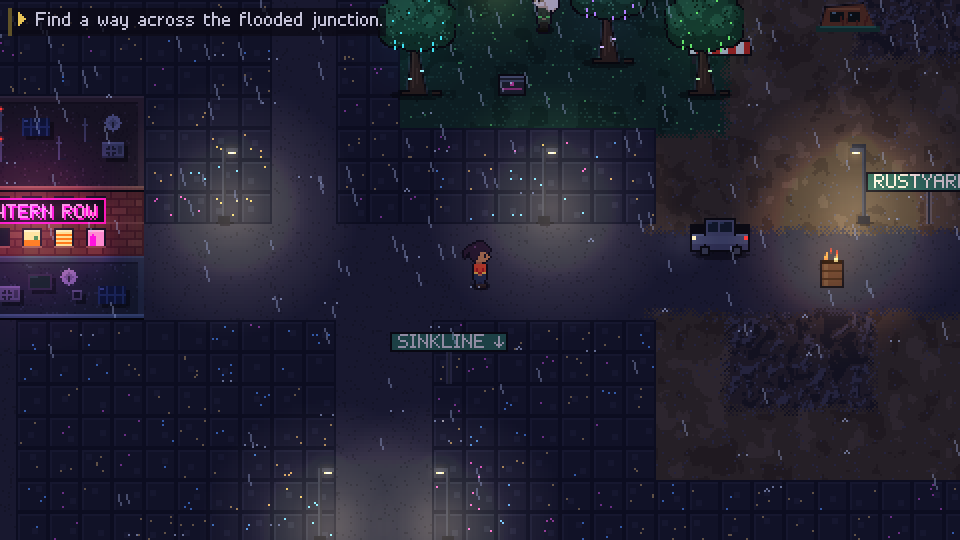
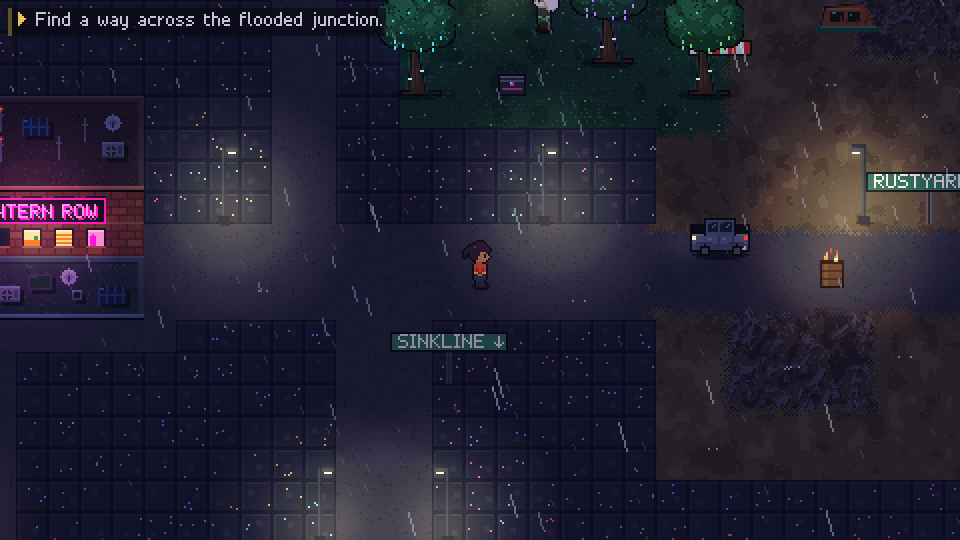
Round 4 (part 7): field art
- Field sprites get a mouth and brows (per-character expression; pedestrians vary)
- Rain in three depth layers with parallax; weather pools drops and splashes (no per-frame allocation)
- Drowned Saint: diamond-motif carpet with faded patches, wall posters, clutter
- Floor lamps get a housing, bulb and guard; cars get seams, handles, arches, plates and glare
- Calmer Rustyard dirt and scrap heaps; polished K-M lab floor

diff --git a/src/field/weather.ts b/src/field/weather.ts
@@ -1,4 +1,4 @@
-/** Screen-space weather: rain with ground splashes, dripping water, drifting dust. */
+/** Screen-space weather: rain in three depth layers with ground splashes, dripping water, drifting dust. */
 import type { Ctx } from '../engine/canvas';
 import { H, W } from '../engine/game';
 import { Rng } from '../engine/rng';
@@ -11,6 +11,8 @@ interface Drop {
   life: number;
   /** Screen y where it lands. */
   land: number;
+  /** Rain layer: 0 far, 1 mid, 2 near (see LAYERS). */
+  depth: number;
 }
 
 interface Splash {
@@ -19,9 +21,23 @@ interface Splash {
   t: number;
 }
 
+/**
+ * Rain depth: far streaks are short, faint and slow and drift less when the camera moves; near
+ * ones are long, bright and fast and drift more. Only the mid layer lands on the ground we see.
+ */
+const LAYERS = [
+  { share: 0.35, speed: 0.6, len: [3, 4], alpha: 0.16, color: '#8a98c8', parallax: 0.55 },
+  { share: 0.5, speed: 1, len: [5, 9], alpha: 0.32, color: '#b8c8ff', parallax: 1 },
+  { share: 0.15, speed: 1.45, len: [11, 15], alpha: 0.4, color: '#dce4ff', parallax: 1.4 },
+] as const;
+
+const MAX_SPLASHES = 60;
+
 export class Weather {
   private drops: Drop[] = [];
+  /** Splash pool: the first `splashCount` entries are live; the rest are kept for reuse. */
   private splashes: Splash[] = [];
+  private splashCount = 0;
   private rng = new Rng(77);
   kind: 'rain' | 'drip' | 'dust' | 'none' = 'none';
   intensity = 1;
@@ -30,34 +46,63 @@ export class Weather {
     this.kind = kind;
     this.intensity = intensity;
     this.drops.length = 0;
-    this.splashes.length = 0;
+    this.splashCount = 0;
     const n = this.count();
-    for (let i = 0; i < n; i++) this.drops.push(this.spawn(true));
+    for (let i = 0; i < n; i++) {
+      const d: Drop = { x: 0, y: 0, len: 0, speed: 0, life: 0, land: 0, depth: 1 };
+      this.reset(d, true);
+      this.drops.push(d);
+    }
   }
 
   private count(): number {
     switch (this.kind) {
-      case 'rain': return Math.round(170 * this.intensity);
+      case 'rain': return Math.round(190 * this.intensity);
       case 'drip': return Math.round(14 * this.intensity);
       case 'dust': return Math.round(50 * this.intensity);
       default: return 0;
     }
   }
 
-  private spawn(anywhere: boolean): Drop {
+  /** Re-seed a drop in place (no allocation per respawn). */
+  private reset(d: Drop, anywhere: boolean): void {
     const r = this.rng;
     if (this.kind === 'dust') {
-      return { x: r.range(0, W), y: r.range(0, H), len: r.int(1, 2), speed: r.range(0.1, 0.35), life: r.int(200, 600), land: H + 10 };
+      d.x = r.range(0, W);
+      d.y = r.range(0, H);
+      d.len = r.int(1, 2);
+      d.speed = r.range(0.1, 0.35);
+      d.life = r.int(200, 600);
+      d.land = H + 10;
+      d.depth = 1;
+      return;
     }
-    const speed = this.kind === 'drip' ? r.range(2.5, 3.5) : r.range(5.5, 8);
-    return {
-      x: r.range(-40, W + 10),
-      y: anywhere ? r.range(-20, H) : r.range(-40, -5),
-      len: this.kind === 'drip' ? 3 : r.int(5, 9),
-      speed,
-      life: 0,
-      land: r.range(20, H + 30),
-    };
+    if (this.kind === 'drip') {
+      d.depth = 1;
+      d.speed = r.range(2.5, 3.5);
+      d.len = 3;
+    } else {
+      const roll = r.next();
+      d.depth = roll < LAYERS[0].share ? 0 : roll < LAYERS[0].share + LAYERS[1].share ? 1 : 2;
+      const layer = LAYERS[d.depth]!;
+      d.speed = r.range(5.5, 8) * layer.speed;
+      d.len = r.int(layer.len[0], layer.len[1]);
+    }
+    d.x = r.range(-40, W + 10);
+    d.y = anywhere ? r.range(-20, H) : r.range(-40, -5);
+    d.life = 0;
+    d.land = d.depth === 1 ? r.range(20, H + 30) : H + 20;
+  }
+
+  private splash(x: number, y: number): void {
+    if (this.splashCount >= MAX_SPLASHES) return;
+    const s = this.splashes[this.splashCount];
+    if (s) {
+      s.x = x;
+      s.y = y;
+      s.t = 0;
+    } else this.splashes.push({ x, y, t: 0 });
+    this.splashCount++;
   }
 
   /** dx, dy: camera movement this frame (keeps rain world-anchored when walking). */
@@ -69,22 +114,34 @@ export class Weather {
         d.x += d.speed - dx * 0.8;
         d.y += Math.sin((d.life + i * 40) * 0.02) * 0.2 - dy * 0.8;
         d.life--;
-        if (d.life <= 0 || d.x > W + 5 || d.x < -5 || d.y < -5 || d.y > H + 5) this.drops[i] = { ...this.spawn(true), x: -2 };
+        if (d.life <= 0 || d.x > W + 5 || d.x < -5 || d.y < -5 || d.y > H + 5) {
+          this.reset(d, true);
+          d.x = -2;
+        }
         continue;
       }
-      d.y += d.speed - dy;
-      d.x += d.speed * 0.28 - dx;
+      const par = this.kind === 'rain' ? LAYERS[d.depth]!.parallax : 1;
+      d.y += d.speed - dy * par;
+      d.x += d.speed * 0.28 - dx * par;
       if (d.y >= d.land) {
-        if (d.land < H && this.splashes.length < 60) this.splashes.push({ x: d.x, y: d.land, t: 0 });
-        this.drops[i] = this.spawn(false);
+        if (d.land < H) this.splash(d.x, d.land);
+        this.reset(d, false);
       }
     }
-    for (const s of this.splashes) {
+    // Age splashes and compact the live ones to the front, in place.
+    let n = 0;
+    for (let i = 0; i < this.splashCount; i++) {
+      const s = this.splashes[i]!;
       s.t++;
       s.x -= dx;
       s.y -= dy;
+      if (s.t < 10) {
+        this.splashes[i] = this.splashes[n]!;
+        this.splashes[n] = s;
+        n++;
+      }
     }
-    this.splashes = this.splashes.filter((s) => s.t < 10);
+    this.splashCount = n;
   }
 
   render(ctx: Ctx): void {
@@ -96,20 +153,33 @@ export class Weather {
       ctx.globalAlpha = 1;
       return;
     }
-    ctx.globalAlpha = this.kind === 'drip' ? 0.6 : 0.32;
-    ctx.fillStyle = '#b8c8ff';
-    for (const d of this.drops) {
-      const x = Math.round(d.x), y = Math.round(d.y);
-      // Slanted streak: 1px wide, drawn as a short diagonal.
-      for (let k = 0; k < d.len; k++) ctx.fillRect(x - Math.round(k * 0.28), y - k, 1, 1);
+    if (this.kind === 'drip') {
+      ctx.globalAlpha = 0.6;
+      ctx.fillStyle = '#b8c8ff';
+      for (const d of this.drops) this.streak(ctx, d);
+    } else {
+      // Back to front, one fill style per layer.
+      for (let layer = 0; layer < LAYERS.length; layer++) {
+        ctx.globalAlpha = LAYERS[layer]!.alpha;
+        ctx.fillStyle = LAYERS[layer]!.color;
+        for (const d of this.drops) if (d.depth === layer) this.streak(ctx, d);
+      }
     }
     ctx.globalAlpha = 0.5;
-    for (const s of this.splashes) {
+    ctx.fillStyle = '#b8c8ff';
+    for (let i = 0; i < this.splashCount; i++) {
+      const s = this.splashes[i]!;
       const r = 1 + (s.t >> 2);
       ctx.fillRect(Math.round(s.x - r), Math.round(s.y), 1, 1);
       ctx.fillRect(Math.round(s.x + r), Math.round(s.y), 1, 1);
       if (s.t < 4) ctx.fillRect(Math.round(s.x), Math.round(s.y - 1), 1, 1);
     }
     ctx.globalAlpha = 1;
+  }
+
+  /** A slanted 1px streak, drawn as a short diagonal. */
+  private streak(ctx: Ctx, d: Drop): void {
+    const x = Math.round(d.x), y = Math.round(d.y);
+    for (let k = 0; k < d.len; k++) ctx.fillRect(x - Math.round(k * 0.28), y - k, 1, 1);
   }
 }

diff --git a/src/field/tiles.ts b/src/field/tiles.ts
@@ -217,9 +217,10 @@ const solid = (c: RGB): Painter => () => c;
 
 const dirt: Painter = (_lx, _ly, wx, wy) => {
   const h = hash2(wx, wy, 61);
-  if (h < 0.06) return P.dirtD;
-  if (h > 0.95) return P.dirtL;
-  return fbm(wx / 8, wy / 8, 2, 62) < 0.4 ? P.dirtD : P.dirt;
+  if (h < 0.025) return P.dirtD;
+  if (h > 0.985) return P.dirtL;
+  const n = fbm(wx / 10, wy / 10, 2, 62);
+  return n < 0.36 ? lerpC(P.dirt, P.dirtD, 0.55) : P.dirt;
 };
 
 const grass: Painter = (lx, ly, wx, wy) => {
@@ -253,13 +254,14 @@ const rubble: Painter = (_lx, _ly, wx, wy) => {
 const JUNK_COLS: RGB[] = [C('#3a3d4a'), C('#4a4e5c'), C('#5a3e30'), C('#6a4a36'), C('#2a2c36'), C('#5a5f70'), C('#7a5a3a')];
 const junk: Painter = (lx, ly, wx, wy, tx, ty, q) => {
   const below = q.at(tx, ty + 1);
-  const n = valueNoise(wx / 5, wy / 5, 201);
-  const h = hash2(Math.floor(wx / 3), Math.floor(wy / 2), 202);
-  let c = JUNK_COLS[Math.floor(h * JUNK_COLS.length)]!;
-  if (n > 0.66) c = lerpC(c, [255, 255, 255], 0.12);
-  if (n < 0.3) c = lerpC(c, [0, 0, 0], 0.35);
-  if (hash2(wx, wy, 203) < 0.02) c = C('#ffcc3d');
-  if (hash2(wx, wy, 204) < 0.012) c = C('#3fe0f0');
+  // Larger salvage chunks with soft shading read as heaped scrap rather than static.
+  const n = valueNoise(wx / 7, wy / 7, 201);
+  const h = hash2(Math.floor(wx / 6), Math.floor(wy / 4), 202);
+  let c = lerpC(JUNK_COLS[Math.floor(h * JUNK_COLS.length)]!, [52, 44, 48], 0.3);
+  if (n > 0.66) c = lerpC(c, [255, 255, 255], 0.1);
+  if (n < 0.3) c = lerpC(c, [0, 0, 0], 0.3);
+  if (hash2(wx, wy, 203) < 0.005) c = C('#ffcc3d');
+  if (hash2(wx, wy, 204) < 0.003) c = C('#3fe0f0');
   // Bottom edge darkens where the pile meets open ground.
   if (below !== 'junk' && ly >= 13) return lerpC(c, [8, 6, 12], (ly - 12) / 4);
   void lx;
@@ -303,8 +305,14 @@ const floorMetal: Painter = (lx, ly) => {
 };
 
 const floorCarpet: Painter = (lx, ly, wx, wy) => {
-  if ((lx + ly) % 8 === 0 && (lx - ly + 16) % 8 === 0) return P.carpetL;
-  return hash2(wx, wy, 101) < 0.1 ? P.carpetD : P.carpet;
+  const d = Math.abs(lx - 7.5) + Math.abs(ly - 7.5);
+  if (Math.round(d) === 6) return P.carpetL;
+  if (d < 1.5) return P.carpetD;
+  if (Math.round(d) === 3 && (lx + ly) % 2 === 0) return lerpC(P.carpet, P.carpetL, 0.5);
+  if (hash2(wx, wy, 103) < 0.003) return [26, 14, 20];
+  const faded = fbm(wx / 36, wy / 36, 2, 107) > 0.6;
+  const base = faded ? lerpC(P.carpet, P.carpetL, 0.22) : P.carpet;
+  return hash2(wx, wy, 101) < 0.06 ? P.carpetD : base;
 };
 
 const floorConcrete: Painter = (_lx, _ly, wx, wy) => {
@@ -389,10 +397,11 @@ const catwalk: Painter = (lx, ly, wx, wy) => {
 const labFloor: Painter = (lx, ly, wx, wy) => {
   if (lx === 0 || ly === 0) return P.labSeam;
   let base = lx === 15 || ly === 15 ? P.labFloorD : P.labFloor;
-  const dust = fbm(wx / 20, wy / 20, 3, 361);
-  if (dust < 0.4) base = lerpC(base, P.labSeam, (0.4 - dust) * 1.5);
-  if (hash2(Math.floor(wx / 6), Math.floor(wy / 3), 362) < 0.06 && (wx + wy * 2) % 7 === 0) return lerpC(base, [40, 44, 56], 0.3);
-  if (hash2(wx, wy, 363) < 0.012) return P.labFloorD;
+  const scuff = fbm(wx / 24, wy / 24, 2, 361);
+  if (scuff < 0.3) base = lerpC(base, P.labSeam, (0.3 - scuff) * 0.8);
+  // Polished sheen: a soft diagonal highlight across each tile.
+  if (lx + ly === 9 || lx + ly === 10) base = lerpC(base, [255, 255, 255], 0.12);
+  if (hash2(wx, wy, 363) < 0.003) return P.labFloorD;
   return base;
 };
 

diff --git a/src/field/props.ts b/src/field/props.ts
@@ -198,6 +198,14 @@ export const PROPS: Partial<Record<PropKind, PropPainter>> = {
       c.fillStyle = shade(col, -0.1); c.fillRect(8, 4, 14, 8);
       c.fillStyle = '#1a2436'; c.fillRect(9, 5, 5, 5); c.fillRect(15, 5, 6, 5);
       c.fillStyle = '#3a4a66'; c.fillRect(9, 5, 2, 1); c.fillRect(15, 5, 2, 1);
+      // Glare streaks across the glass.
+      c.fillStyle = '#6a7a9a'; c.fillRect(12, 6, 1, 1); c.fillRect(11, 7, 1, 1); c.fillRect(19, 6, 1, 1); c.fillRect(18, 7, 1, 1);
+      // Door seams and handles, wheel arches, a rear plate.
+      c.fillStyle = shade(col, -0.4); c.fillRect(14, 12, 1, 5); c.fillRect(21, 12, 1, 5);
+      c.fillStyle = shade(col, 0.45); c.fillRect(16, 13, 2, 1); c.fillRect(9, 13, 2, 1);
+      c.fillStyle = shade(col, -0.55); c.fillRect(3, 15, 8, 1); c.fillRect(19, 15, 8, 1);
+      c.fillStyle = '#d8d0b8'; c.fillRect(25, 17, 3, 2);
+      c.fillStyle = '#3a3440'; c.fillRect(26, 17, 1, 1);
       c.fillStyle = '#0f0e17';
       disc(c, 7, 19, 3, '#0f0e17'); disc(c, 23, 19, 3, '#0f0e17');
       disc(c, 7, 19, 1.5, '#4a4e5c'); disc(c, 23, 19, 1.5, '#4a4e5c');
@@ -834,13 +842,22 @@ export const PROPS: Partial<Record<PropKind, PropPainter>> = {
   lampfloor(b, p) {
     blockFoot(b, p);
     const col = p.color ?? '#ffcf7a';
-    const { x, y } = tall(b, p, 10, 26, (c, e) => {
-      c.fillStyle = '#0f0e17'; c.fillRect(4, 8, 2, 18); c.fillRect(2, 24, 6, 2);
-      c.fillStyle = '#3a3040'; c.fillRect(4, 8, 1, 16);
-      both(c, e, (k) => { k.fillStyle = col; k.fillRect(1, 1, 8, 7); k.fillStyle = mix(col, '#fff', 0.5); k.fillRect(2, 2, 6, 2); });
-      c.fillStyle = '#0f0e17'; c.fillRect(0, 0, 10, 1); c.fillRect(0, 8, 10, 1);
+    const { x, y } = tall(b, p, 12, 26, (c, e) => {
+      // Pole on a weighted base, with its cable trailing off across the floor.
+      c.fillStyle = '#0f0e17'; c.fillRect(5, 9, 2, 16); c.fillRect(2, 23, 8, 3);
+      c.fillStyle = '#3a3040'; c.fillRect(5, 9, 1, 14); c.fillRect(3, 23, 6, 1);
+      c.fillStyle = '#1a1622'; c.fillRect(9, 24, 2, 1); c.fillRect(11, 25, 1, 1);
+      // Housing: dark shell with a lit face, the bulb hot in the middle, a wire guard over it.
+      c.fillStyle = '#0f0e17'; c.fillRect(0, 0, 12, 9);
+      c.fillStyle = '#2a2632'; c.fillRect(1, 1, 10, 2);
+      both(c, e, (k) => {
+        k.fillStyle = shade(col, -0.3); k.fillRect(1, 3, 10, 5);
+        k.fillStyle = col; k.fillRect(2, 3, 8, 4);
+        k.fillStyle = mix(col, '#fff', 0.75); k.fillRect(4, 4, 4, 2);
+      });
+      c.fillStyle = '#0f0e17'; c.fillRect(3, 3, 1, 5); c.fillRect(8, 3, 1, 5); c.fillRect(1, 5, 10, 1);
     });
-    b.lights.push({ x: x + 5, y: y + 10, r: 56, color: col, i: 0.9 });
+    b.lights.push({ x: x + 6, y: y + 10, r: 56, color: col, i: 0.9 });
   },
 
   sign_board(b, p) {

diff --git a/src/art/chars.ts b/src/art/chars.ts
@@ -35,6 +35,10 @@ export interface CharLook {
   visor?: string;
   goggles?: string;
   accessories?: Accessory[];
+  /** Front-view mouth: a short line (default), a grin with teeth, or none. */
+  mouth?: 'line' | 'grin' | 'none';
+  /** Front-view brows (default on). */
+  brows?: boolean;
 }
 
 export interface CharSprite {
@@ -692,6 +696,7 @@ function palette(look: CharLook, nearArm: 'left' | 'right' | null): Pal {
   return {
     s: look.skin, S: sd(look.skin, -0.28),
     e: look.eyes ?? '#1a1426',
+    m: sd(look.skin, -0.42),
     t: look.top, T: sd(look.top),
     i: inner, I: sd(inner),
     a: look.accent, A: sd(look.accent),
@@ -768,6 +773,29 @@ function hairStrands(rows: string[]): void {
   }
 }
 
+/**
+ * Brows and a mouth on the front view, painted only onto bare skin (hair, beards and masks win).
+ * Two rows of separation from the eyes keeps them reading as a face, not taller eyes.
+ */
+function faceFeatures(rows: string[], look: CharLook): void {
+  const put = (x: number, y: number, ch: string) => {
+    const r = rows[y];
+    if (r?.[x] !== 's') return;
+    rows[y] = r.slice(0, x) + ch + r.slice(x + 1);
+  };
+  if (look.brows !== false) for (const x of [5, 6, 9, 10]) put(x, 5, 'H');
+  const mouth = look.mouth ?? 'line';
+  if (mouth === 'line') {
+    put(7, 10, 'm');
+    put(8, 10, 'm');
+  } else if (mouth === 'grin') {
+    put(6, 10, 'm');
+    put(7, 10, 'w');
+    put(8, 10, 'w');
+    put(9, 10, 'm');
+  }
+}
+
 function buildGrid(look: CharLook, view: 'down' | 'up' | 'side', frame: number): string[] {
   const rows = [...BODY[view][frame]!];
   const hair = HAIR[look.hairStyle][view];
@@ -777,6 +805,7 @@ function buildGrid(look: CharLook, view: 'down' | 'up' | 'side', frame: number):
   if (accs.includes('beard')) overlay(rows, ACC.beard[view]);
   overlay(rows, hair);
   if (view === 'up') hairStrands(rows);
+  if (view === 'down') faceFeatures(rows, look);
   for (const a of accs) if (a !== 'elfears' && a !== 'beard') overlay(rows, ACC[a][view]);
   return reshape(rows, look.body ?? 'std');
 }

diff --git a/src/data/maps/interiors.ts b/src/data/maps/interiors.ts
@@ -95,6 +95,12 @@ export const bar: MapDef = {
     { kind: 'arcade', x: 1, y: 11, color: '#3fe0f0' },
     { kind: 'plant', x: 20, y: 2 },
     { kind: 'sign_board', x: 13, y: 1, w: 2 },
+    { kind: 'poster', x: 1, y: 1, color: '#ff4fb0' },
+    { kind: 'poster', x: 9, y: 1, color: '#ffcc3d' },
+    { kind: 'poster', x: 19, y: 1, color: '#3fe0f0' },
+    { kind: 'poster', x: 20, y: 1, color: '#b07cff' },
+    { kind: 'trash', x: 18, y: 12 },
+    { kind: 'crates', x: 11, y: 2 },
   ],
   lights: [
     { x: 6, y: 4, r: 70, color: '#ff6fc8', i: 0.55 },

diff --git a/src/data/looks.ts b/src/data/looks.ts
@@ -88,5 +88,8 @@ export function randomLook(seed: number): CharLook {
   if (look.hairStyle === 'cap') look.hat = r.pick(TOPS);
   // Neon dye is for statement cuts; on a big rounded style it reads as a flat ball.
   if (NEON.has(look.hair) && !['mohawk', 'spiky', 'ponytail', 'slick'].includes(look.hairStyle)) look.hair = r.pick(NATURAL);
+  // A face of their own: most people look neutral, some grin, a few give nothing away.
+  look.mouth = r.pick(['line', 'line', 'line', 'grin', 'none'] as const);
+  look.brows = r.chance(0.75);
   return look;
 }
